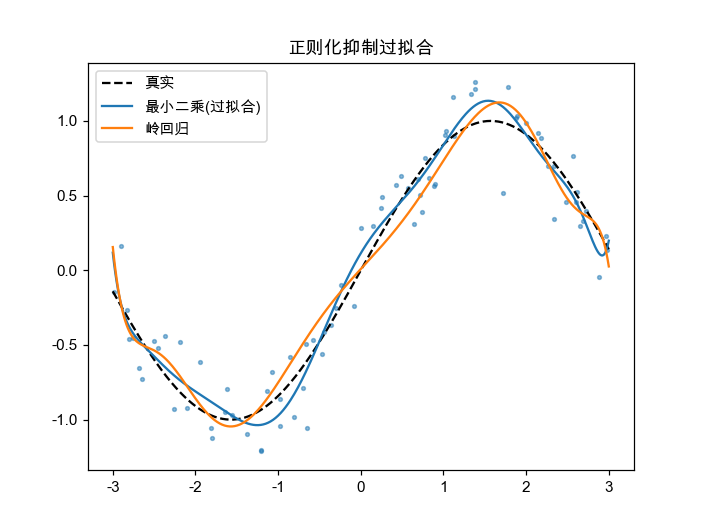
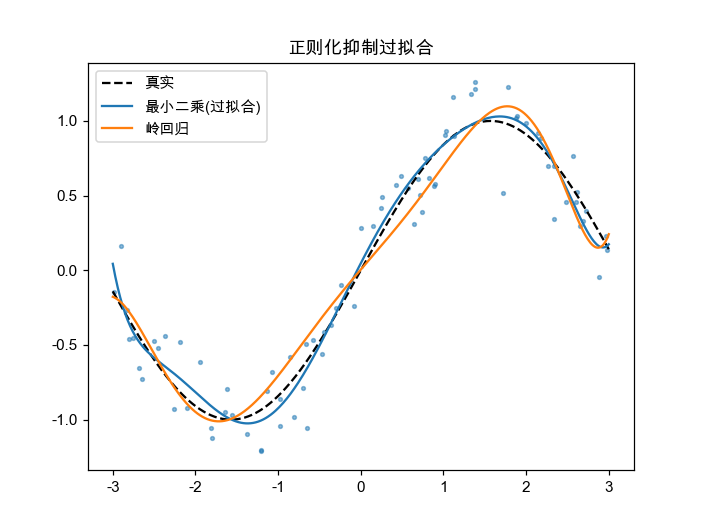
content: 3.4 the many faces of regularization (avoid ill-conditioned degree)

diff --git a/03_Introduction/3.4_The_Many_Faces_of_Regularization/3.4_The_Many_Faces_of_Regularization.py b/03_Introduction/3.4_The_Many_Faces_of_Regularization/3.4_The_Many_Faces_of_Regularization.py
@@ -17,8 +17,8 @@ def main() -> None:
     x = np.sort(rng.uniform(-3, 3, 80))
     y = np.sin(x) + 0.2 * rng.standard_normal(80)
     xx = np.linspace(-3, 3, 400)
-    ls = make_pipeline(PolynomialFeatures(12), LinearRegression()).fit(x[:, None], y)
-    ridge = make_pipeline(PolynomialFeatures(12), Ridge(alpha=5)).fit(x[:, None], y)
+    ls = make_pipeline(PolynomialFeatures(8), LinearRegression()).fit(x[:, None], y)
+    ridge = make_pipeline(PolynomialFeatures(8), Ridge(alpha=5)).fit(x[:, None], y)
     plt.scatter(x, y, s=6, alpha=0.5)
     plt.plot(xx, np.sin(xx), "k--", label="真实")
     plt.plot(xx, ls.predict(xx[:, None]), label="最小二乘(过拟合)")
